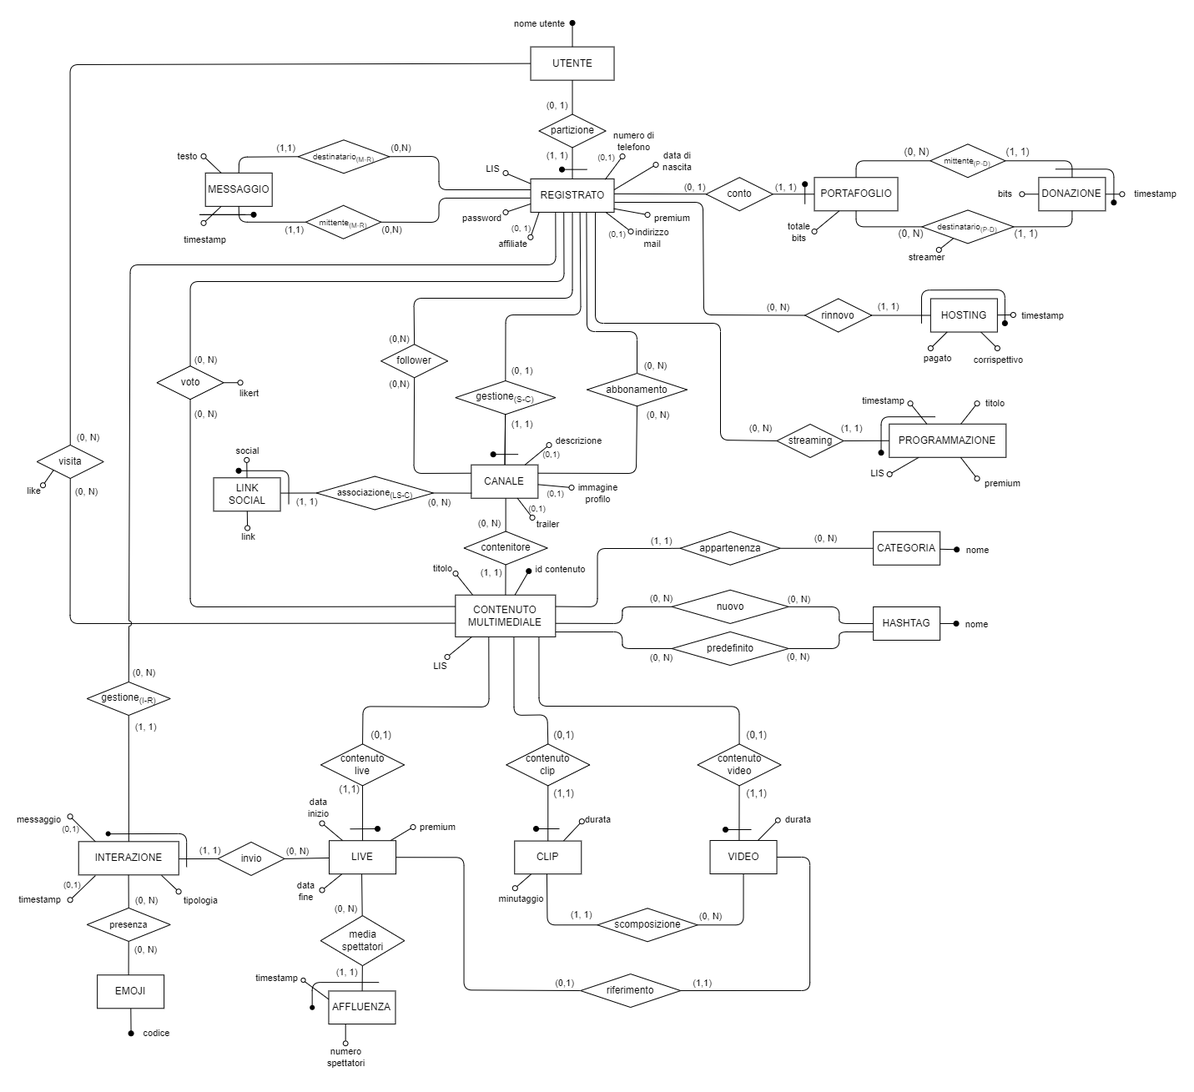
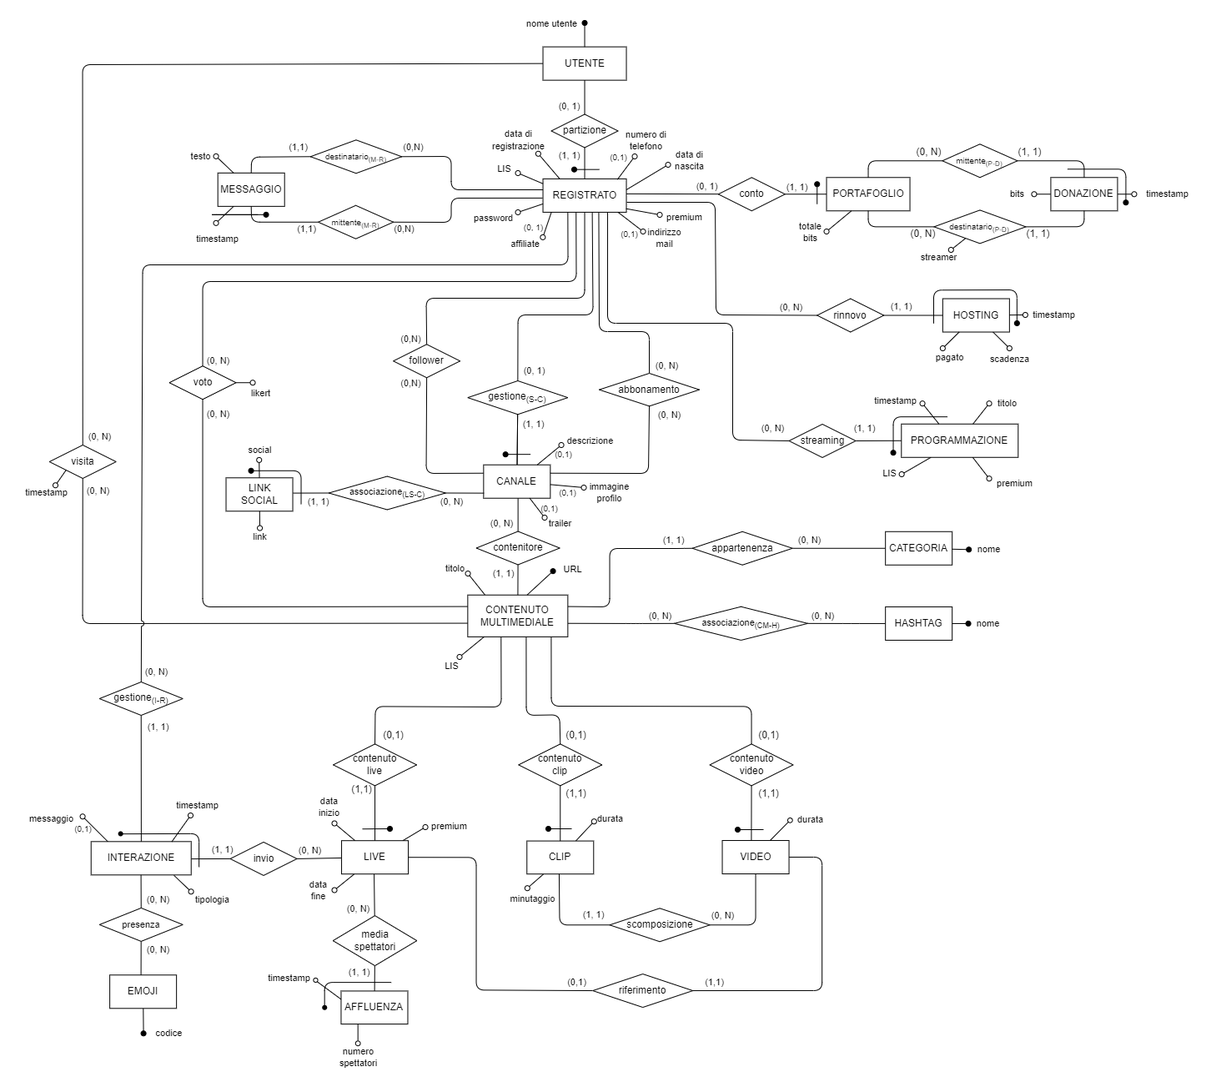
Corretto schema ER + schema relazionale
Corretto alcuni attributi (id e non) in schema ER prog. conc. e business rules + ripristinato ridondanze in ER + corretto 2.2, 2.3.4 +2.4 + 2.5.

diff --git a/Progetto Esame - DBSperimentazioni A.A. 2023-2024/Markdown/3 Schema progettazione logica.md b/Progetto Esame - DBSperimentazioni A.A. 2023-2024/Markdown/3 Schema progettazione logica.md
@@ -36,7 +36,6 @@
     - [2.3.2.3 Generalizzazione 3 (generalizzazione dell'interazione utenti-contenuto multimediale)](#2323-generalizzazione-3-generalizzazione-dellinterazione-utenti-contenuto-multimediale)
       - [2.3.2.3.1 Regole aziendali introdotte](#23231-regole-aziendali-introdotte)
   - [2.3.3 Partizionamento/accorpamento di entità e associazioni](#233-partizionamentoaccorpamento-di-entità-e-associazioni)
-    - [2.3.3.1 Partizionamento/Accorpamento 1 (partizionamento di associazione)](#2331-partizionamentoaccorpamento-1-partizionamento-di-associazione)
   - [2.3.4 Scelta degli identificatori principali](#234-scelta-degli-identificatori-principali)
 - [2.4 Schema E-R ristrutturato + regole aziendali](#24-schema-e-r-ristrutturato--regole-aziendali)
   - [2.4.1 Regole aziendali](#241-regole-aziendali)
@@ -192,7 +191,7 @@ Entità come **CATEGORIA** o **EMOJI** presentano volumi molto più bassi di ent
 | ---------- | ---------------------------------------------------------------------------------------------------------------------------------------- | ---- | ---------------------- |
 | Op1        | Controlla le condizioni per la qualifica di affiliate                                                                                    | B    | Una volta al giorno    |
 | Op2        | Calcola la classifica degli streamer più seguiti                                                                                         | B    | Una volta a settimana  |
-| Op3        | Per ogni streamer, calcola la media dei like per ogni contenuto multimediale                                                             | B    | Una volta al giorno    |
+| Op3        | Per ogni streamer, calcola la media dei voti per ogni contenuto multimediale                                                             | B    | Una volta al giorno    |
 | Op4        | Gli amministratori, per ogni contenuto multimediale di ogni streamer, stilano il rating dei video più votati                             | B    | Una  volta  al  giorno |
 | Op5        | Controlla ed elimina tutti i commenti offensivi per ogni contenuto multimediale, nelle categorie, nei canali e durante le live           | B    | Dieci volte al giorno  |
 | Op6        | Controlla i nuovi utenti registrati                                                                                                      | B    | Due volte al giorno    |
@@ -507,7 +506,7 @@ Anche se questa scelta può portare a valori nulli e a uno spreco di spazio, per
 
 ### 2.3.3 Partizionamento/accorpamento di entità e associazioni
 
-Nel processo di ristrutturazione, ci concentreremo sul partizionamento dell'associazione **_associazione<sub>(CM-H)</sub>_** che mette in relazione le entità `CONTENUTO MULTIMEDIALE` e `HASHTAG`.
+<!--Nel processo di ristrutturazione, ci concentreremo sul partizionamento dell'associazione **_associazione<sub>(CM-H)</sub>_** che mette in relazione le entità `CONTENUTO MULTIMEDIALE` e `HASHTAG`.
 
 Per comodità, le entità e associzioni coinvolte verranno colorate di <span style="color:blue">**blu**</span>.
 
@@ -525,35 +524,35 @@ Si è scelto di partizionare l'associazione `associazione(CM-H)` perchè quando 
 
 La tecnica usata è il **_partizionamento di associazione_** e produce le due nuove associazioni **_nuovo_** e **_predefinito_** che rappresentano rispettivamente gli hashtag nuovi e quelli predefiniti fino a quel momento.
 
-Le nuove cardinalità sono le stesse dell'associazione `associazione(CM-H)`, in quanto un contenuto multimediale può essere associato a molti hashtag oppure a nessuno e uno streamer può creare molti nuovi hashtag oppure nessuno da associare ai propri contenuti.
+Le nuove cardinalità sono le stesse dell'associazione `associazione(CM-H)`, in quanto un contenuto multimediale può essere associato a molti hashtag oppure a nessuno e uno streamer può creare molti nuovi hashtag oppure nessuno da associare ai propri contenuti.-->
 
 ### 2.3.4 Scelta degli identificatori principali
 
-| Entità                 | Identificatore principale  |
-| ---------------------- | -------------------------- |
-| UTENTE                 | nome utente                |
-| REGISTRATO             | nome utente                |
-| PORTAFOGLIO            | nome utente                |
-| DONAZIONE              | nome utente, timestamp     |
-| MESSAGGIO              | timestamp, nome utente     |
-| CANALE                 | nome utente                |
-| LINK SOCIAL            | social, nome utente        |
-| HOSTING                | timestamp, nome utente     |
-| PROGRAMMAZIONE         | timestamp, nome utente     |
-| CONTENUTO MULTIMEDIALE | id contenuto (_surrogato_) |
-| LIVE                   | id contenuto               |
-| CLIP                   | id contenuto               |
-| VIDEO                  | id contenuto               |
-| EMOJI                  | codice                     |
-| CATEGORIA              | nome                       |
-| HASHTAG                | nome                       |
-| INTERAZIONE            | nome utente, id contenuto  |
-| AFFLUENZA              | timestamp, id contenuto    |
+| Entità                 | Identificatore principale            |
+| ---------------------- | ------------------------------------ |
+| UTENTE                 | nome utente                          |
+| REGISTRATO             | nome utente                          |
+| PORTAFOGLIO            | nome utente                          |
+| DONAZIONE              | nome utente, timestamp               |
+| MESSAGGIO              | timestamp, nome utente               |
+| CANALE                 | nome utente                          |
+| LINK SOCIAL            | social, nome utente                  |
+| HOSTING                | timestamp, nome utente               |
+| PROGRAMMAZIONE         | timestamp, nome utente               |
+| CONTENUTO MULTIMEDIALE | URL                                  |
+| LIVE                   | id contenuto                         |
+| CLIP                   | id contenuto                         |
+| VIDEO                  | id contenuto                         |
+| EMOJI                  | codice                               |
+| CATEGORIA              | nome                                 |
+| HASHTAG                | nome                                 |
+| INTERAZIONE            | nome utente, id contenuto, timestamp |
+| AFFLUENZA              | timestamp, id contenuto              |
 
 Gli identificatori rappresentati nello schema ristrutturato sono tutti costituiti da pochi attributi e verranno quindi considerati tutti come chiavi primarie.
 
 Molte entità hanno identitficatori esterni, ma costituiti da pochi attributi: per questo motivo si è deciso di mantenerli e di considerarli come chiavi primarie.
-Unica eccezione a questa decisione risulta essere l'entità `CONTENUTO MULTIMEDIALE`: questa entità infatti avrebbe avuto un identificatore composto da tre attributi (uno dei quali esterno) e ciò avrebbe complicato la traduzione in schema logico, causando la propagazione del suo lungo identificatore anche alle entità che essa stessa avrebbe identificato. Per queste ragioni, si è deciso di sostituire questo identificatore con un identificatore surrogato **_id contenuto_** univoco per ogni occorrenza di questa entità.
+Unica eccezione a questa decisione risulta essere l'entità `CONTENUTO MULTIMEDIALE`: questa entità infatti avrebbe avuto un identificatore composto da quattro attributi (uno dei quali esterno) e ciò avrebbe complicato la traduzione in schema logico, causando la propagazione del suo lungo identificatore anche alle entità che essa stessa avrebbe identificato. Per queste ragioni, si è deciso di considerare come identificatore soltanto l'attributo **_URL_**, essendo un URL già di per sè univoco.
 
 ## 2.4 Schema E-R ristrutturato + regole aziendali
 
@@ -592,6 +591,7 @@ Unica eccezione a questa decisione risulta essere l'entità `CONTENUTO MULTIMEDI
 | RD5 | La popolarità di un contenuto multimediale si ottiene contando il numero di visualizzazioni e interazioni ricevute.                                 |
 | RD6 | L'affluenza media di una live si ottiene dividendo l'affluenza totale per il numero di affluenze momentanee calcolate durante la live.              |
 | RD7 | Il numero di interazioni si ottiene sommando tutte le interazioni ricevute da un contenuto multimediale.                                            |
+| RD8 | La media di voti di un contenuto multimediale si ottiene dividendo il punteggio totale dei voto del contenuto per il numero di voti ricevuti.       |
 
 ## 2.5 Schema relazionale con vincoli di integrità referenziale
 
@@ -601,7 +601,7 @@ Unica eccezione a questa decisione risulta essere l'entità `CONTENUTO MULTIMEDI
 
 Utente(<U>NomeUtente</U>)
 
-Registrato(<U>Username</U>, Password, DataDiNascita, NumeroDiTelefono*, IndirizzoMail*, Affiliate*, Premium, LIS)  
+Registrato(<U>Username</U>, UserPassword, DataDiNascita, DataRegistrazione, NumeroDiTelefono*, IndirizzoMail*, Affiliate*, Premium, LIS)  
 > Registrato(Username) referenzia Utente(NomeUtente)  
 
 Messaggio(<U>Mittente</U>, <U>TimestampMessaggio</U>, Destinatario, Testo)  
@@ -615,10 +615,10 @@ Donazione(<U>MittenteDonazione</U>, <U>TimestampDonazione</U>, Destinatario, Str
 > Donazione(MittenteDonazione) referenzia Portfoglio(UtenteProprietario)  
 > Donazione(Destinatario) referenzia Portfoglio(UtenteProprietario)  
 
-Hosting(<U>UtenteStreamer</U>, <U>TimestampRinnovo</U>, Pagato, Corrispettivo)  
+Hosting(<U>UtenteStreamer</U>, <U>TimestampRinnovo</U>, Pagato, Scadenza)  
 > Hosting(UtenteStreamer) referenzia Registrato(Username)  
 
-Programmazione(<U>Streamer</U>, <U>Timestamp</U>, Titolo, LIS, Premium)  
+Programmazione(<U>Streamer</U>, <U>ProgTimestamp</U>, Titolo, LIS, Premium)  
 > Programmazione(Streamer) referenzia Registrato(Username)  
 
 Abbonamento(<U>UtenteAbbonato</U>, <U>Streamer</U>)  
@@ -632,54 +632,52 @@ Follower(<U>UtenteFollower</U>, <U>StreamerSeguito</U>)
 > Follower(UtenteFollower) referenzia Registrato(Username)  
 > Follower(StreamerSeguito) referenzia Canale(StreamerProprietario)  
 
-LinkSocial(<U>CanaleAssociato</U>, <U>Social</U>, Link)  
+LinkSocial(<U>CanaleAssociato</U>, <U>Social</U>, LinkProfilo)  
 > LinkSocial(CanaleAssociato) referenzia Canale(StreamerProprietario)  
 
-ContenutoMultimediale(<U>IdContenuto</U>, Canale, Titolo, Categoria, LIS)  
+ContenutoMultimediale(<U>IdURL</U>, Canale, Titolo, Categoria, LIS)  
 > ContenutoMultimediale(Canale) referenzia Canale(StreamerProprietario)  
 > ContenutoMultimediale(Categoria) referenzia Categoria(NomeCategoria)  
 
 Voto(<U>UtenteRegistrato</U>, <U>ContenutoMultimediale</U>, Likert)  
 > Voto(UtenteRegistrato) referenzia Registrato(Username)  
-> Voto(ContenutoMultimediale) referenzia ContenutoMultimediale(IdContenuto)
+> Voto(ContenutoMultimediale) referenzia ContenutoMultimediale(IdURL)
 
-Visita(<U>Utente</U>, <U>ContenutoMultimediale</U>, Like)  
+Visita(<U>Utente</U>, <U>ContenutoMultimediale</U>, <U>TimestampVisita</U>)  
 > Visita(Utente) referenzia Utente(NomeUtente)  
-> Visita(ContenutoMultimediale) referenzia ContenutoMultimediale(IdContenuto)  
+> Visita(ContenutoMultimediale) referenzia ContenutoMultimediale(IdURL)  
+**N.B.**: si è deciso di considerare anche l'attributo **TimestampVisita** come chiave primaria siccome un utente non avrebbe altrimenti potuto visitare un contenuto multimediale più volte, cosa invece possibile nello schema ER ristrutturato.
 
 Categoria(<U>NomeCategoria</U>)
 
 Hashtag(<U>NomeHashtag</U>)
 
-Nuovo(<U>NuovoHashtag</U>, ContenutoMultimediale)  
-> Nuovo(NuovoHashtag) referenzia Hashtag(NomeHashtag)  
-> Nuovo(ContenutoMultimediale) referenzia ContenutoMultimediale(IdContenuto)  
-
-Predefinito(<U>HashtagPredefinito</U>, ContenutoMultimediale)  
-> Predefinito(HashtagPredefinito) referenzia Hashtag(NomeHashtag)  
-> Predefinito(ContenutoMultimediale) referenzia ContenutoMultimediale(IdContenuto)
+AssociazioneCM_H(<U>Hashtag</U>, <U>ContenutoMultimediale</U>)  
+> AssociazioneCM_H(Hashtag) referenzia Hashtag(NomeHashtag)  
+> AssociazioneCM_H(ContenutoMultimediale) referenzia ContenutoMultimediale(IIdURL)
 
 Live(<U>IdLive</U>, DataInizio, DataFine, Premium)
-> Live(IdLive) referenzia ContenutoMultimediale(IdContenuto)
+> Live(IdLive) referenzia ContenutoMultimediale(IdURL)
 
 Clip(<U>IdClip</U>, Durata, Minutaggio, Video)  
-> Clip(IdClip) referenzia ContenutoMultimediale(IdContenuto)  
+> Clip(IdClip) referenzia ContenutoMultimediale(IdURL)  
 > Clip(Video) referenzia Video(IdVideo)  
 
 Video(<U>IdVideo</U>, Durata, Live)  
-> Video(IdVideo) referenzia ContenutoMultimediale(IdContenuto)  
+> Video(IdVideo) referenzia ContenutoMultimediale(IdURL)  
 > Video(Live) referenzia Live(IdLive)
 
 Affluenza(<U>Live</U>, <U>TimestampAffluenza</U>, NumeroSpettatori)  
 > Affluenza(Live) referenzia Live(IdLive)  
 
-Interazione(<U>Spettatore</U>, <U>LiveCorrente</U>, Tipologia, Messaggio*, Timestamp*)  
+Interazione(<U>Spettatore</U>, <U>LiveCorrente</U>, <U>IntTimestamp</U>, Tipologia, Messaggio*)  
 > Interazione(Spettatore) referenzia Registrato(Username)  
 > Interazione(LiveCorrente) referenzia Live(IdLive)
 
 Emoji(<U>Codice</U>)
   
-Presenza(<U>SpettatoreLive</U>, <U>LiveAssociata</U>, <U>CodiceEmoji</U>)  
+Presenza(<U>SpettatoreLive</U>, <U>LiveAssociata</U>, <U>TimestampInt</U>, <U>CodiceEmoji</U>)  
 > Presenza(SpettatoreLive) referenzia Interazione(Spettatore)  
 > Presenza(LiveAssociata) referenzia Interazione(LiveCorrente)  
+> Presenza(TimestampInt) referenzia Interazione(IntTimestamp)  
 > Presenza(CodiceEmoji) referenzia Emoji(Codice)  

diff --git a/Progetto Esame - DBSperimentazioni A.A. 2023-2024/Markdown/2 Schema progettazione concettuale.md b/Progetto Esame - DBSperimentazioni A.A. 2023-2024/Markdown/2 Schema progettazione concettuale.md
@@ -148,26 +148,27 @@ Qualsiasi altra operazione/funzionalità del sistema e/o modellazione di requisi
 
 ## 1.2 Glossario dei termini
 
-| Termine           | Descrizione                                                                   | Sinonimi        | Collegamenti             |
-| ----------------- | ----------------------------------------------------------------------------- | --------------- | ------------------------ |
-| utente            | fruitore del servizio di live streaming                                       |                 | spettatore, streamer     |
-| spettatore        | utente che osserva le live e chatta                                           | viewer          | utente registrato, guest |
-| streamer          | utente registrato che crea live e contenuti  |amministratore delle pagine, creatore di contenuti| canale, follower         |
-| guest             | utente non registrato che osserva le live                                     |                 | live                     |
-| utente registrato | utente che si è registrato al servizio                                        | utente iscritto | follower                 |
-| utente premium    | utente registrato che paga la piattaforma per benefici maggiori               |                 | utente registrato        |
-| canale            | pagina dello streamer, dove pubblica le live                                  |                 | streamer, social         |
-| social            | link social dello streamer                                                    |                 | canale                   |
-| live              | live corrente che lo streamer sta trasmettendo                                | stream, diretta | canale, streamer         |
-| video             | live passate dello streamer                                                   |                 | canale                   |
-| clip              | parte di un video di tot. secondi                                             |                 | canale                   |
-| affilitate        | streamer che ha superato determinati criteri                                  |                 | streamer                 |
-| follower          | utente registrato che segue lo streamer e riceve notifiche delle sue attivitá |                 | streamer, canale         |
-| utente fragile    | utente registrato che ha determinate disabilitá                               |                 | utente registrato        |
-| bit               | moneta virtuale per effettuare donazioni agli streamer                        |                 | utenti                   |
-| subscription      | supporto economico che riceve uno streamer dagli spettatori                   |                 | spettatore, streamer     |
-| followee          | streamer che viene seguito dai follower                                       | streamer        | streamer, follower       |
-| trailer           | video creato dallo streamer come presentazione del canale                     |                 | canale                   |
+| Termine           | Descrizione                                                                   | Sinonimi                                           | Collegamenti                         |
+| ----------------- | ----------------------------------------------------------------------------- | -------------------------------------------------- | ------------------------------------ |
+| utente            | fruitore del servizio di live streaming                                       |                                                    | spettatore, streamer                 |
+| spettatore        | utente che osserva le live e chatta                                           | viewer                                             | utente registrato, guest             |
+| streamer          | utente registrato che crea live e contenuti                                   | amministratore delle pagine, creatore di contenuti | canale, follower                     |
+| guest             | utente non registrato che osserva le live                                     |                                                    | live                                 |
+| utente registrato | utente che si è registrato al servizio                                        | utente iscritto                                    | follower                             |
+| utente premium    | utente registrato che paga la piattaforma per benefici maggiori               |                                                    | utente registrato                    |
+| canale            | pagina dello streamer, dove pubblica le live                                  |                                                    | streamer, social                     |
+| social            | link social dello streamer                                                    |                                                    | canale                               |
+| live              | live corrente che lo streamer sta trasmettendo                                | stream, diretta                                    | canale, streamer                     |
+| video             | live passate dello streamer                                                   |                                                    | canale                               |
+| clip              | parte di un video di tot. secondi                                             |                                                    | canale                               |
+| affilitate        | streamer che ha superato determinati criteri                                  |                                                    | streamer                             |
+| follower          | utente registrato che segue lo streamer e riceve notifiche delle sue attivitá |                                                    | streamer, canale                     |
+| utente fragile    | utente registrato che ha determinate disabilitá                               |                                                    | utente registrato                    |
+| bit               | moneta virtuale per effettuare donazioni agli streamer                        |                                                    | utenti                               |
+| subscription      | supporto economico che riceve uno streamer dagli spettatori                   |                                                    | spettatore, streamer                 |
+| followee          | streamer che viene seguito dai follower                                       | streamer                                           | streamer, follower                   |
+| trailer           | video creato dallo streamer come presentazione del canale                     |                                                    | canale                               |
+| voto              | voto in likert che uno spettatore assegna ad un contenuto multimediale        | like                                               | utente registrato, live, video, clip |
 
 ## 1.3 Requisiti riscritti
 
@@ -194,7 +195,7 @@ La base di dati deve supportare le seguenti operazioni:
 
 - Una volta al giorno si controllano le condizioni per la qualifica di affiliate
 - Una volta a settimana viene calcolata la classifica degli streamer più seguiti
-- Una volta al giorno, viene calcolata la media dei like per ogni contenuto multimediale (per ogni streamer)
+- Una volta al giorno, viene calcolata la media dei <span style="color:red">~~like~~</span> <span style="color:blue">**voti**</span> per ogni contenuto multimediale (per ogni streamer)
 - Una volta al giorno, gli amministratori, per ogni contenuto multimediale di ogni streamer, stilano il rating dei video più votati (quelli che, in media, hanno      ricevuto una votazione maggiore rispetto agli altri)
 - Dieci volte al giorno, vengono controllati ed eliminati tutti i commenti con contenuti offensivi fatti dagli utenti per ogni contenuto multimediale (per ogni  streamer), nelle categorie, nei canali e durante le dirette live
 - Due volte al giorno vengono controllati i nuovi utenti registrati (sia premium – nuovi abbonati – sia utenti appartenenti a categorie fragili)
@@ -289,7 +290,7 @@ Si può assumere che i contenuti multimediali vengano gestiti da una piattaforma
 
 | Frasi relative alle **operazioni della base di dati** |
 | --- |
-| La base di dati deve supportare le seguenti operazioni: <br><br>- Una volta al giorno si controllano le condizioni per la qualifica di affiliate <br>- Una volta a settimana viene calcolata la classifica degli streamer più seguiti <br>- Una volta al giorno, viene calcolata la media dei like per ogni contenuto multimediale (per ogni streamer) <br>- Una volta al giorno, gli amministratori, per ogni contenuto multimediale di ogni streamer, stilano il rating dei video più votati (quelli che, in media, hanno ricevuto una votazione maggiore rispetto agli altri) <br>- Dieci volte al giorno, vengono controllati ed eliminati tutti i commenti con contenuti offensivi fatti dagli utenti per ogni contenuto multimediale (per ogni streamer), nelle categorie, nei canali e durante le dirette live <br>- Due volte al giorno vengono controllati i nuovi utenti registrati (sia premium – nuovi abbonati – sia utenti appartenenti a categorie fragili) <br>- Cinque volte al giorno, gli amministratori delle pagine degli streamer segnalano agli amministratori della base di dati, i profili fake che seguono i loro streamer <br>- Una volta ogni 6 mesi, gli amministratori possono visualizzare lo storico degli utenti premium (quelli storici (dato un range di date) che quelli recenti (relativi all’ultimo mese)) |
+| La base di dati deve supportare le seguenti operazioni: <br><br>- Una volta al giorno si controllano le condizioni per la qualifica di affiliate <br>- Una volta a settimana viene calcolata la classifica degli streamer più seguiti <br>- Una volta al giorno, viene calcolata la media dei voti per ogni contenuto multimediale (per ogni streamer) <br>- Una volta al giorno, gli amministratori, per ogni contenuto multimediale di ogni streamer, stilano il rating dei video più votati (quelli che, in media, hanno ricevuto una votazione maggiore rispetto agli altri) <br>- Dieci volte al giorno, vengono controllati ed eliminati tutti i commenti con contenuti offensivi fatti dagli utenti per ogni contenuto multimediale (per ogni streamer), nelle categorie, nei canali e durante le dirette live <br>- Due volte al giorno vengono controllati i nuovi utenti registrati (sia premium – nuovi abbonati – sia utenti appartenenti a categorie fragili) <br>- Cinque volte al giorno, gli amministratori delle pagine degli streamer segnalano agli amministratori della base di dati, i profili fake che seguono i loro streamer <br>- Una volta ogni 6 mesi, gli amministratori possono visualizzare lo storico degli utenti premium (quelli storici (dato un range di date) che quelli recenti (relativi all’ultimo mese)) |
 
 | Frasi relative al **servizio di hosting** |
 | --- |
@@ -391,3 +392,4 @@ Si può assumere che i contenuti multimediali vengano gestiti da una piattaforma
 | RD5 | La popolarità di un contenuto multimediale si ottiene contando il numero di visualizzazioni, commenti e reazioni ricevute.                          |
 | RD6 | L'affluenza media di una live si ottiene dividendo l'affluenza totale per il numero di affluenze momentanee calcolate durante la live.              |
 | RD7 | Il numero di interazioni si ottiene sommando commenti e reazioni associate a un contenuto multimediale.                                             |
+| RD8 | La media di voti di un contenuto multimediale si ottiene dividendo il punteggio totale dei voto del contenuto per il numero di voti ricevuti.       |
